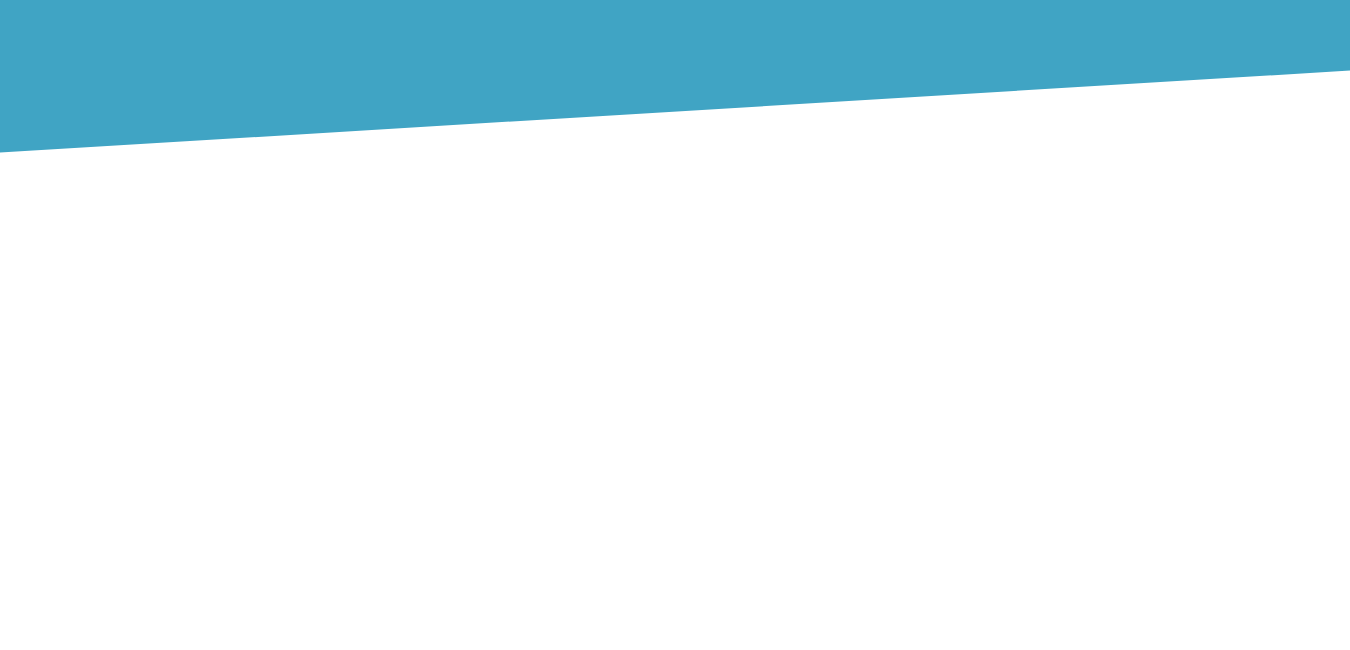
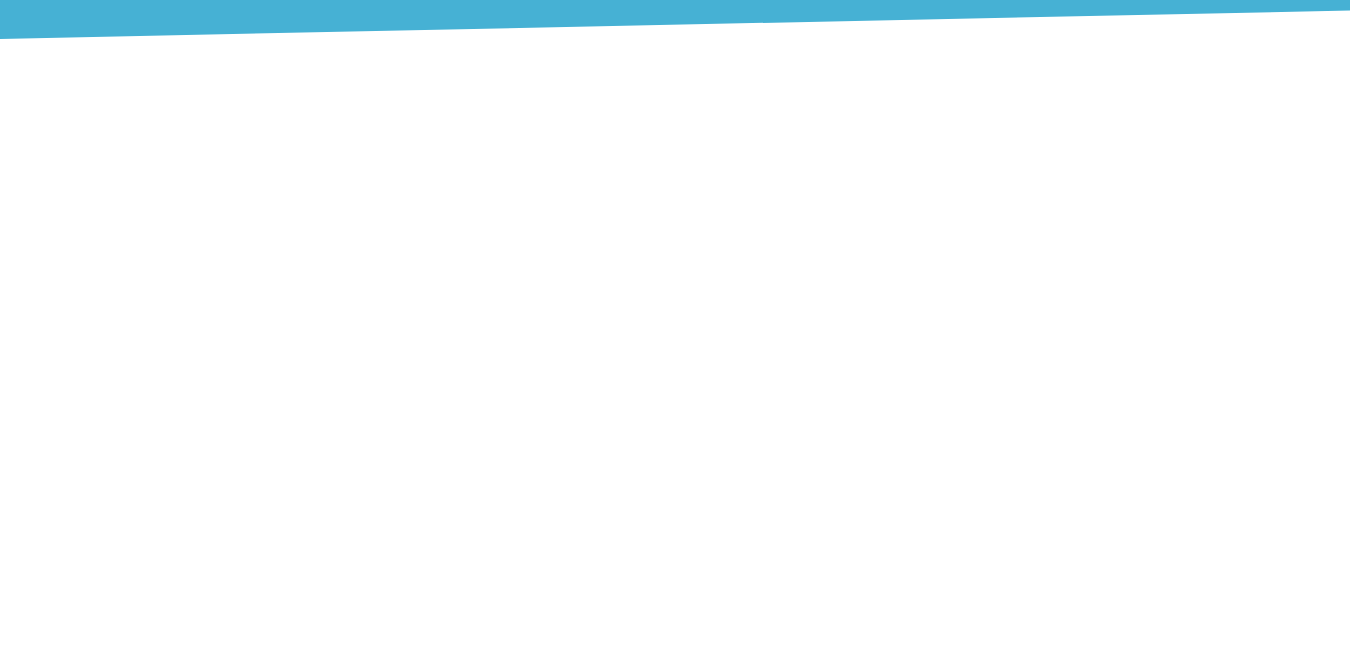
More changes in css

Changed region(s): [[0.0, 0.0, 1.0, 0.2462]]

diff --git a/client/src/components/pages/home/Home.css b/client/src/components/pages/home/Home.css
@@ -2,8 +2,8 @@
     padding: 15px 35px;
     font-weight: 600;
     font-size: 1.3em;
-    border: 2.5px solid #4b98b1;
-    color:#4b98b1;
+    border: 2.5px solid white;
+    color:white;
     transition: 0.3s;
     z-index: 2;
 }
@@ -12,23 +12,23 @@
     padding: 10px 30px;
     font-weight: 600;
     font-size: 1.3em;
-    border: 2.5px solid #E8DAB2;
-    color:#E8DAB2;
+    border: 2.5px solid white;
+    color:white;
     transition: 0.3s
 }
 
 .loginButton:hover {
-  color: rgb(30, 42, 48); 
+  color: #3e3e3e; 
   text-decoration: none;
-  background-color: #E8DAB2;
-  border-color: rgb(30, 42, 48);
+  background-color: white;
+  border-color: #3e3e3e;
 }
 
 .homeButton:hover {
-  color: #E8DAB2;
-  background-color: #4b98b1;
+  color: #3e3e3e;
+  background-color: white;
   text-decoration: none;
-  border-color: rgb(241, 233, 207);
+  border-color: #3e3e3e;
 }
 
 .homePhrase {      
@@ -38,30 +38,102 @@
     padding: 5% 0 0 0;
 }
 
-.homePhrase img {
-    width: 450px;
+.imgPhrase img {
+    width: 350px;
     max-width: 100%;
+    padding: 10% 0 5% 0;
     height: auto;
     float: center;
-    z-index: 1;
+    z-index: 0;
     position: relative
+}
+
+.colPhrase img {
+    width: 250px;
+    max-width: 100%;
+    height: auto;
+    float: center
 }
 
 .colPhrase {
     text-align: center;
-    padding: 8% 2% 12% 12%; 
-}
+    padding: 0 2% 12% 12%;
+    }
 
-h1 {
+.homePhrase h1 {
     color: #3e3e3e;
-    font-size: 4.5em;
+    font-size: 5em;
     font-weight: bold;
-    margin-bottom: 15%;
+    margin-bottom: 10%;
     text-align: right;
     padding: 2%;
     z-index: 2;
 }
 
+@media (max-width: 883px) {
+    .homePhrase h1 {
+        font-size: 3em;
+        text-align: center;
+        padding-bottom: 5%;
+    }
+
+    .colPhrase {
+    padding: 0 1% 15% 1%;
+    }
+
+}
+
+@media (max-width: 1163px){
+   
+
+    .colPhrase {
+    padding: 0 1% 15% 1%;
+    }
+} 
+
+@media (max-width: 1682px){
+    .homePhrase h1 {
+        font-size: 3.5em
+    }
+}
+
+@media (max-width: 450px) {
+    .homePhrase h1{
+        font-size: 2.5em;       
+    }
+
+    .mowieText h3 {
+        text-align: left;
+        padding: 0;
+        margin: 0;
+    }
+
+    .lastRow h1{
+        font-size: .5em;
+    }
+
+    .lastRow .mowieCol img {
+    width: 90vw;
+    max-width: 90vw;
+    float: center;
+    z-index: 1;
+    position: relative;
+    margin-bottom: 20px;
+    }
+
+    .mowieCol {
+    display: flex;
+    flex-direction: column;
+    align-items: center;
+    padding: 0
+    }
+
+    .lastRow .mowieCol h1 {
+        font-size: 2em
+    }
+
+};
+  
 .colBlue {
     text-align: center;
 }
@@ -73,7 +145,8 @@ h1 {
 }
 
 .blueRow {   
-    background-color: #40a3c4;
+    background-color: #46b1d4;
+    text-align: center;
     align-items: top;
     justify-content: right;
     padding: 5% 0 0 0;
@@ -96,12 +169,13 @@ h1 {
 
 .lastRow {
     background-color: white;
-    padding: 10% 30% 0 30%;
+    color: #3e3e3e;
+    padding: 6% 5% 3% 5%;
 }
 
 .lastRow img {
     width: 700px;
-    max-width: 100%;
+    max-width: 50vw;
     height: auto;
     float: center;
     z-index: 1;
@@ -109,9 +183,24 @@ h1 {
     margin-bottom: 20px;
 }
 
-.lastRow h1 {
+/* .lastRow h1 {
+    font-size: 2.5em;
     margin-bottom: 5px;
     text-align: center;
+} */
+
+.mowieText {
+    display: flex;
+    text-align: center;
+    align-items: center;
+    padding: 80px 5% 20px 5%;
+}
+
+.mowieCol {
+    display: flex;
+    flex-direction: column;
+    align-items: center;
+    padding: 80px;
 }
 
 .bluePhrase h2 {
@@ -146,9 +235,9 @@ h2 {
 }
 
 .homeFooter {
-    background-color: rgb(24, 49, 61);
+    background-color: #3e3e3e;;
     padding: .5%;
-    color: #E8DAB2;
+    color: white;
     display: flex;
     justify-content: center;
 }

diff --git a/client/src/components/pages/home/Home.js b/client/src/components/pages/home/Home.js
@@ -8,6 +8,7 @@ import Filmmaker from '../../ui/ImagesforCol/undraw_videographer_nnc7.svg'
 import Connect from '../../ui/ImagesforCol/handshake-colour.svg'
 import Role from '../../ui/ImagesforCol/mirror-pose-colour.svg'
 import ProjectShare from '../../ui/ImagesforCol/drawkit-content-man-colour.svg'
+import Logo from '../../ui/ImagesforCol/mowie-logo.png'
 
 
 import './Home.css'
@@ -18,12 +19,11 @@ const Home = () => {
         <Container fluid={true}>
             <Row className="homePhrase backImg1">
                 <Col className="colPhrase" md="6">
-                    <section>   
-                        <h1>La red social de los filmmakers independientes</h1>
-                    </section>
+                    <img src={Logo} alt="logo" />
+                    <h1>La red social de los filmmakers independientes</h1>                   
                 <Link className="homeButton" to="/signup" >Crea tu cuenta</Link>
                 </Col>
-                <Col md="6">
+                <Col className="imgPhrase" md="6">
                     <img src={Videographer} alt="Videographer" />
                 </Col>
             </Row>
@@ -49,8 +49,11 @@ const Home = () => {
                 </Col>
             </Row>
             <Row className="lastRow backImg3">
-                <h1>¡Te estamos esperando!</h1>
-                <Col md="12">
+                <Col className="mowieText" lg="6">
+                    <h3><b>Mowie</b> nace con la idea de unir a todos aquellos que quieran colaborar en proyectos audiovisuales independientes. Un lugar de encuentro para los amantes del séptimo arte que buscan desarrollar sus proyectos y encontrar colaboradores.</h3>
+                </Col>
+                <Col className="mowieCol" lg="6">
+                    {/* <h1><b>¡Te estamos esperando!</b></h1> */}
                     <img src={Filmmaker} alt="filmmaker" />
                 </Col>
             </Row>

diff --git a/client/src/components/ui/navbar/Navbar.js b/client/src/components/ui/navbar/Navbar.js
@@ -3,6 +3,7 @@ import Navbar from 'react-bootstrap/Navbar'
 import Nav from 'react-bootstrap/Nav'
 
 import AuthService from './../../../service/auth.service'
+import Logo from '../ImagesforCol/logo-navbar.png'
 
 import { Link } from 'react-router-dom'
 import './Navbar.css'
@@ -25,10 +26,10 @@ class Navigation extends Component {
 
         return (
             <Navbar className="nav" expand="md">
-                <Navbar.Brand as="div"><Link to="/">PluggedIn</Link></Navbar.Brand>
+                <Navbar.Brand as="div"><Link to="/"><img className="navLogo" src={Logo} alt="logo" /></Link></Navbar.Brand>
                 <Navbar.Toggle aria-controls="basic-navbar-nav" />
-                <Navbar.Collapse id="basic-navbar-nav">
-                    <Nav>
+                <Navbar.Collapse className="navEnd" id="basic-navbar-nav">
+                    <Nav >
                         {
                             !this.props.loggedInUser ?
                                 <>
@@ -48,7 +49,7 @@ class Navigation extends Component {
                         }
 
                     </Nav>
-                    <Navbar.Text className="ml-auto"> {this.props.loggedInUser ? this.props.loggedInUser.username : 'invitad@'}</Navbar.Text>
+                    {/* <Navbar.Text className="ml-auto"> {this.props.loggedInUser ? this.props.loggedInUser.username : 'invitad@'}</Navbar.Text> */}
                 </Navbar.Collapse>
 
             </Navbar>

diff --git a/client/src/components/ui/navbar/Navbar.css b/client/src/components/ui/navbar/Navbar.css
@@ -6,17 +6,26 @@
 
 .nav {
     background-color: #3e3e3e;
-    color: #E8DAB2;
+    color: white;
     box-shadow: 1px -9px 8px 9px rgba(0,0,0,0.6);
     z-index: 2;
 }
 
+.navEnd {
+    display: flex;
+    justify-content: flex-end;
+}
+
 .nav a {
-    color: #E8DAB2;
+    color: white;
     font-weight: 600;
     transition: 0.3s;
 }
 
 .nav a:hover {
     color: #EAEAEA
+}
+
+.navLogo {
+    height: 45px;
 }

diff --git a/client/src/components/App.css b/client/src/components/App.css
@@ -4,7 +4,7 @@
 body {
   font-weight: 300;
   font-family: 'Raleway', sans-serif;
-  background-color: rgb(241, 233, 207);
+  background-color: rgb(255, 255, 255);
 }
 
 h1, h2, h3, h4, strong {
@@ -15,7 +15,6 @@ a, a:hover {
   color: inherit;
   text-decoration: none;
 }
-
 
 
 .toast {
